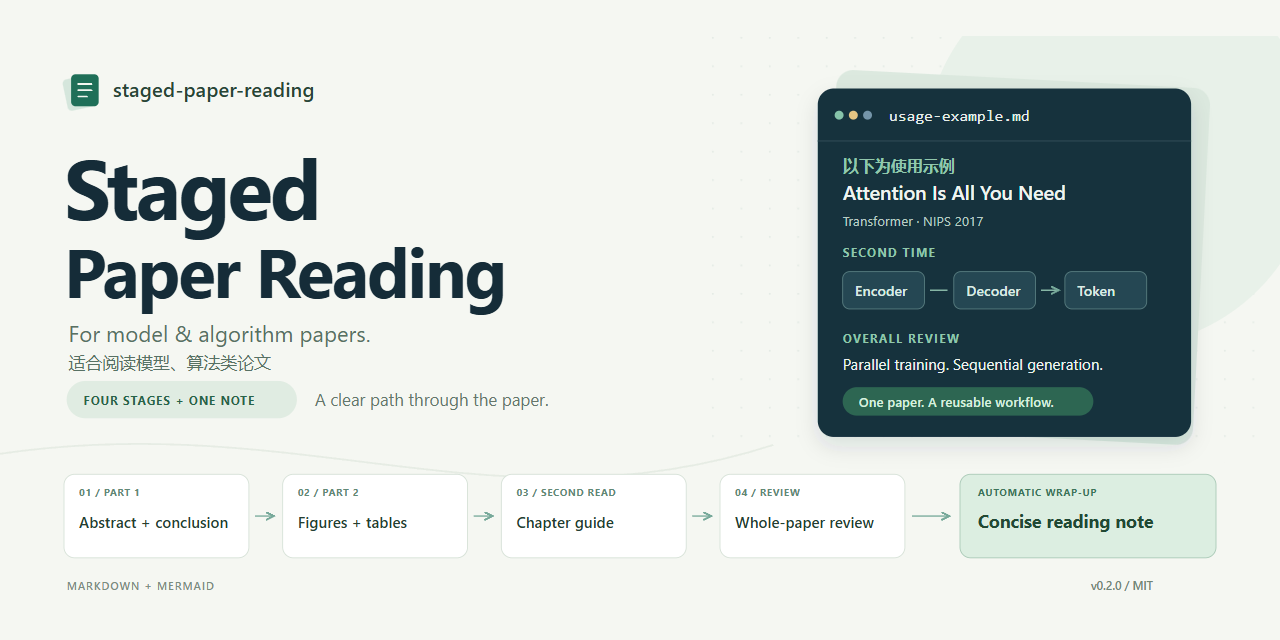
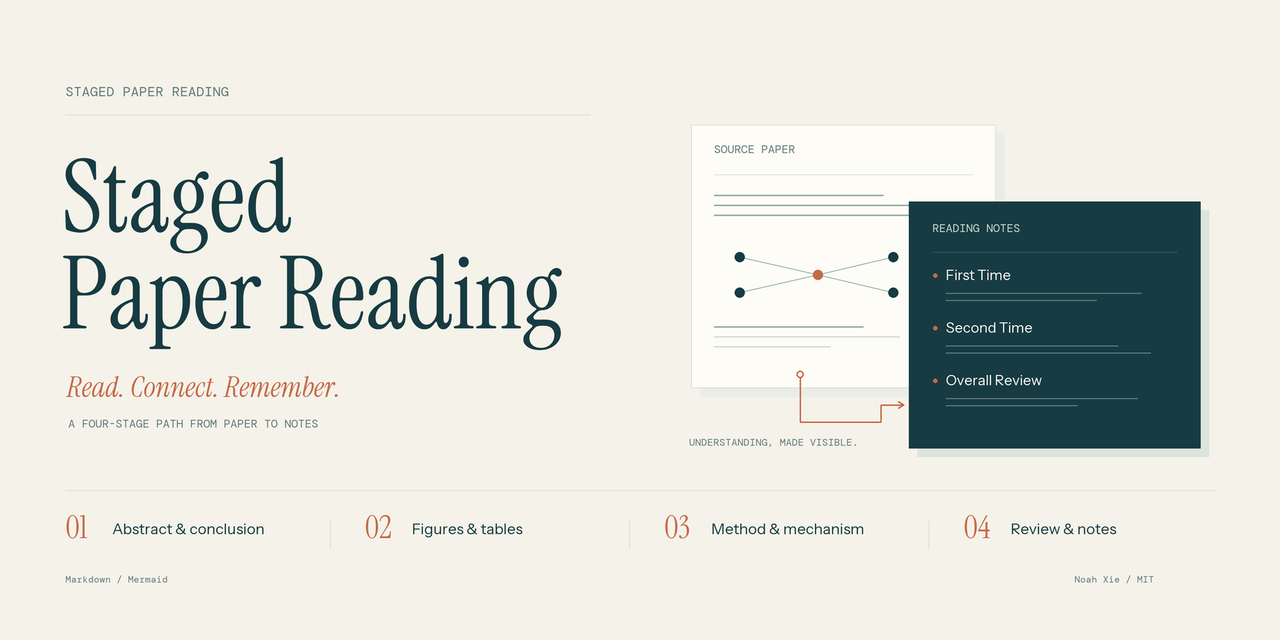
Refresh skill presentation and add reading workflow diagrams

diff --git a/skills/staged-paper-reading/SKILL.md b/skills/staged-paper-reading/SKILL.md
@@ -38,6 +38,14 @@ description: "主要面向模型、算法类论文的通用四阶段阅读 skill
 
 ## 阶段与停止规则
 
+```mermaid
+flowchart LR
+    A["First Time / Part 1<br/>摘要与结论"] -->|继续| B["First Time / Part 2<br/>全部图表"]
+    B -->|继续| C["Second Time<br/>正文速读"]
+    C -->|继续| D["Overall Review<br/>通篇总结"]
+    D -->|自动生成| N["Markdown 阅读笔记"]
+```
+
 | 阶段 | 输出名称 | 结束后的行为 |
 |---|---|---|
 | 1 | 第一次阅读 Part 1 | 告知本阶段结束，等待用户说“继续” |
